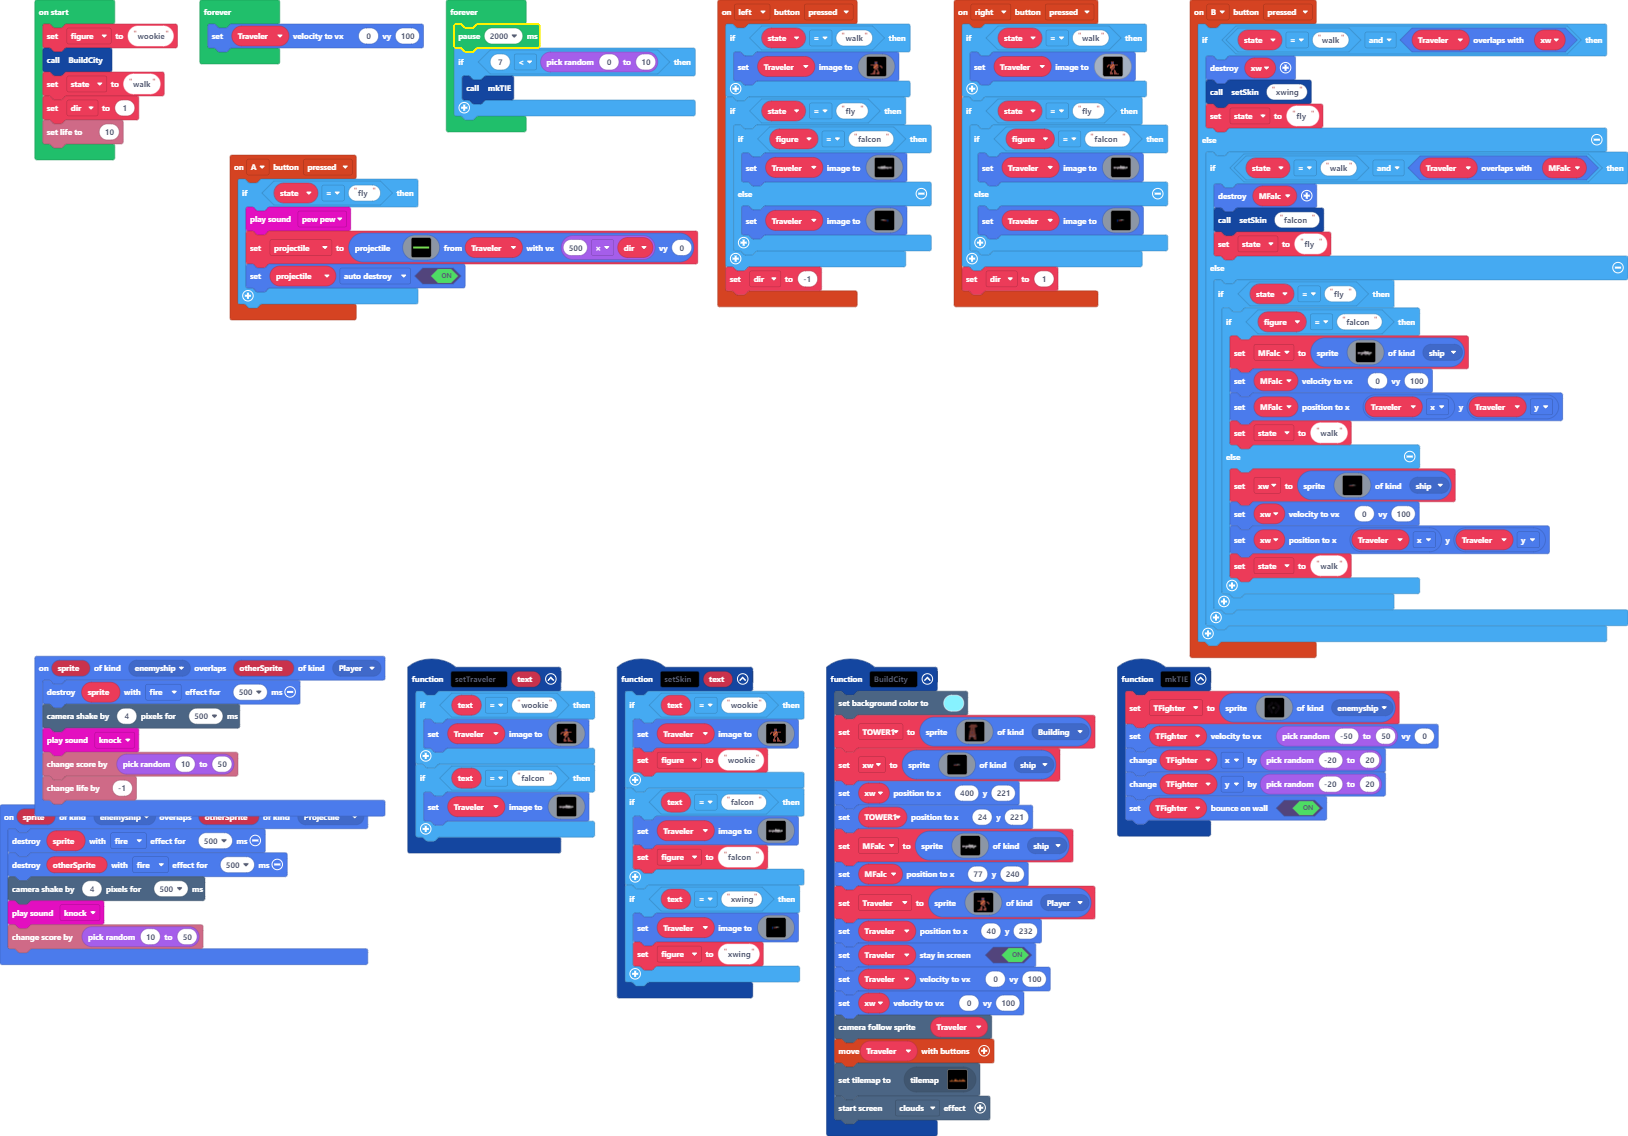
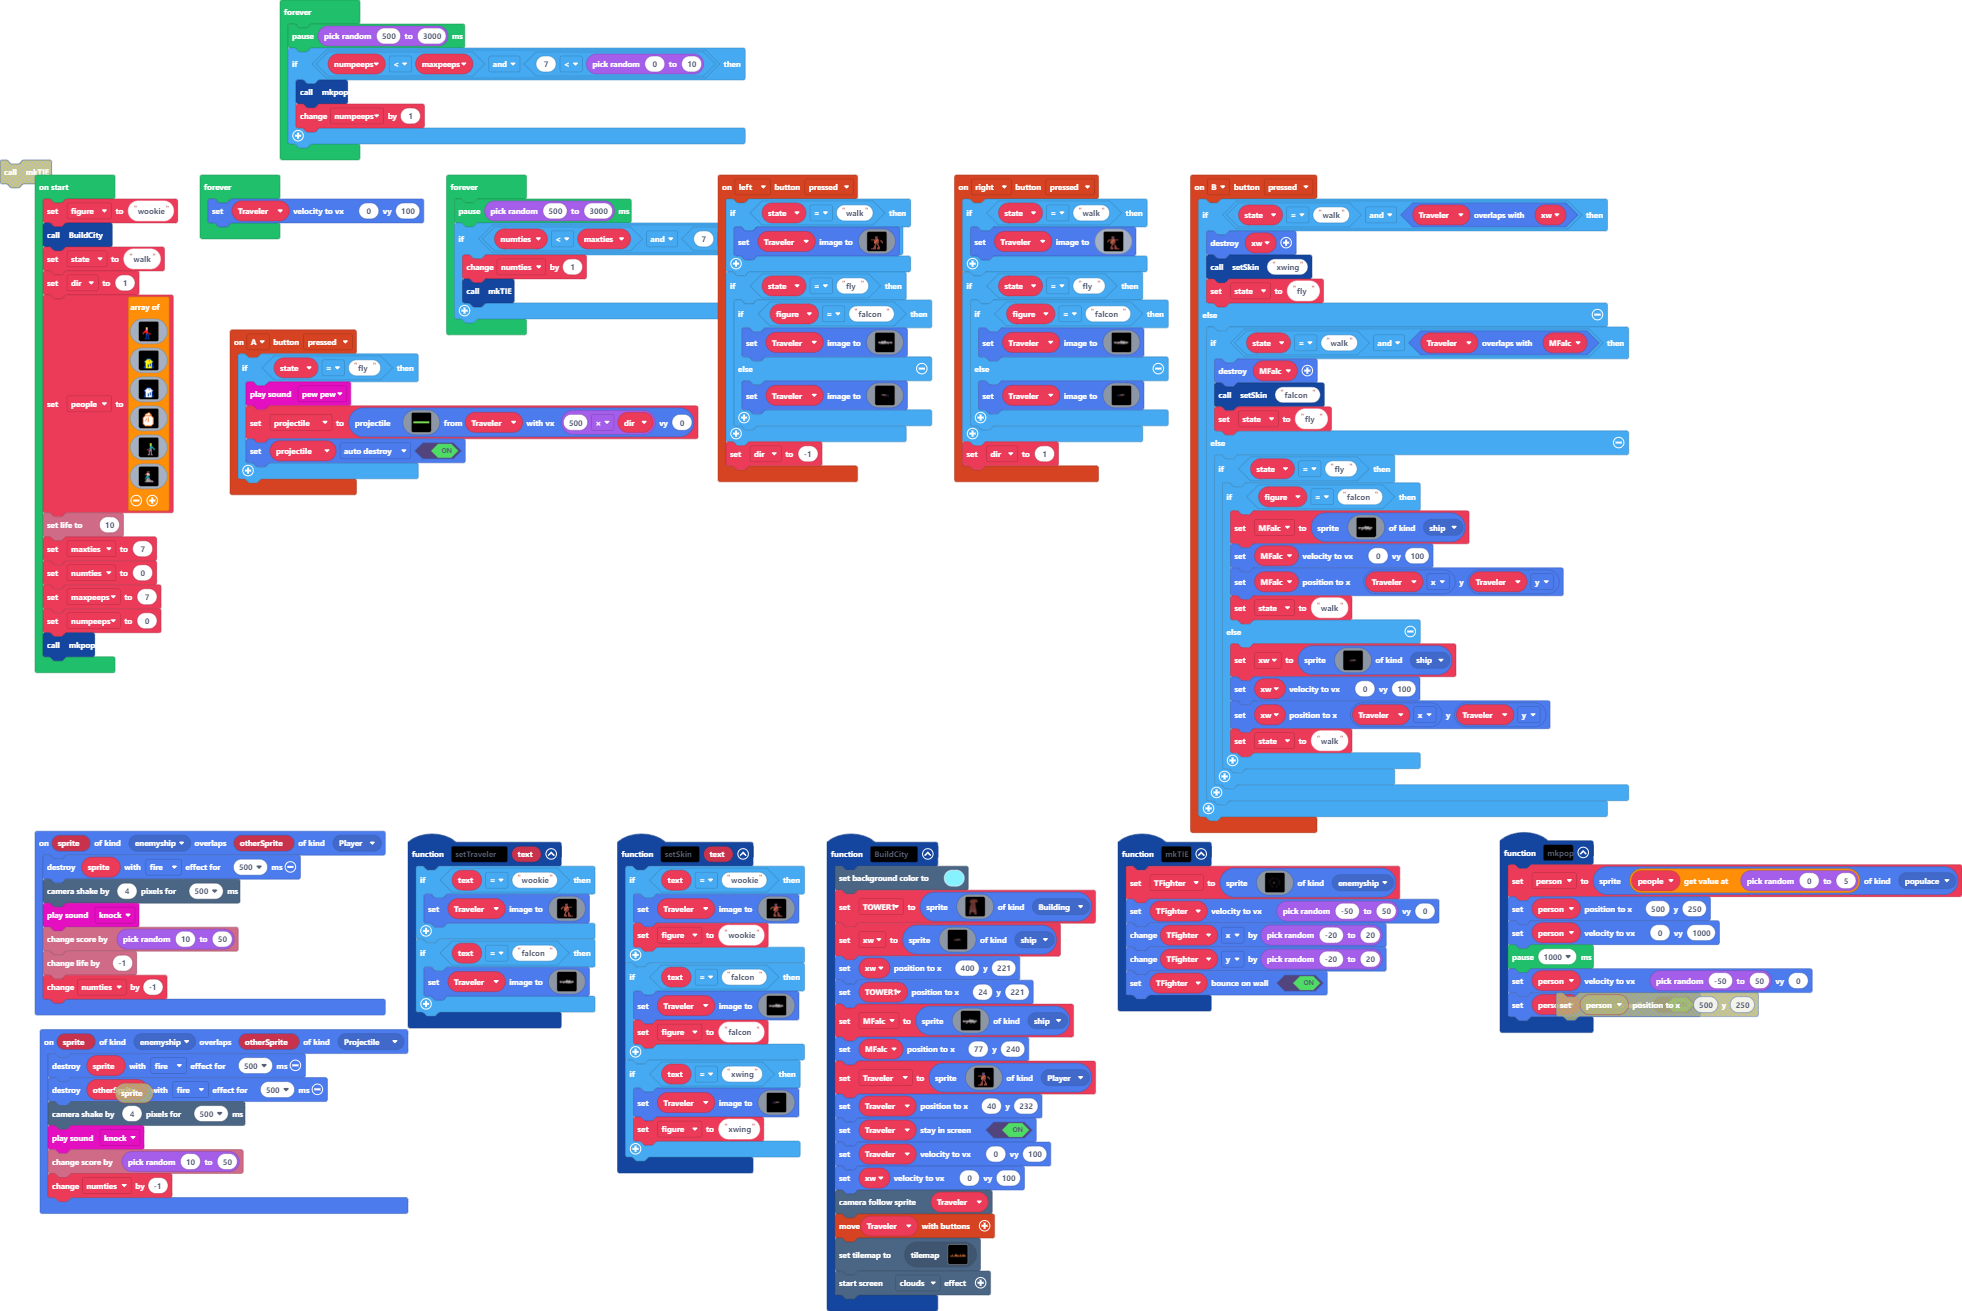
Update main.blocks, main.ts, images.g.jres, images.g.ts

diff --git a/images.g.ts b/images.g.ts
@@ -364,6 +364,120 @@ eeeeffffffffffffffffffffeeeeeeeeee................
 7 7 7 7 7 7 7 7 7 7 7 7 7 7 7 7 
 7 7 7 7 7 7 7 7 7 7 7 7 7 7 7 7 
 `;
+            case "O0H~V8`nz[++n+[[4Js|":
+            case "person1":return img`
+. . . . . . . . . . . . . . . . 
+. . . . . . . . . . . . . . . . 
+. . . . . . . . . . . . . . . . 
+. . . . . . . . . . . . . . . . 
+. . . . . 5 5 . . . . . . . . . 
+. . . . . 3 3 . . . . . . . . . 
+. . . . . 3 3 . . . . . . . . . 
+. . . . 2 2 2 . . . . . . . . . 
+. . . 2 2 2 2 . . . . . . . . . 
+. . 2 2 . 2 2 2 . . . . . . . . 
+. . 2 . . 8 8 . 2 2 . . . . . . 
+. . . . . 8 8 8 . . . . . . . . 
+. . . . . 8 . 8 . . . . . . . . 
+. . . . . 8 . 8 . . . . . . . . 
+. . . . . 8 . 8 . . . . . . . . 
+. . . . 8 8 . 8 8 . . . . . . . 
+`;
+            case "ihWsvbGad_#?@h+SNy9:":
+            case "droid1":return img`
+. . . . . . . . . . . . . . . . 
+. . . . . . . . . . . . . . . . 
+. . . . . . . . . . . . . . . . 
+. . . . . . . . . . . . . . . . 
+. . . . . . . . . . . . . . . . 
+. . . . . . . . . . . . . . . . 
+. . . . . . 8 8 8 8 . . . . . . 
+. . . . . 8 5 5 5 5 8 . . . . . 
+. . . . 8 5 5 5 2 5 5 8 . . . . 
+. . . 8 5 5 5 5 5 5 5 5 8 . . . 
+. . . . 8 5 5 5 5 5 5 8 . . . . 
+. . . . 8 5 5 5 5 8 5 8 . . . . 
+. . . . 8 5 5 8 5 8 5 8 . . . . 
+. . . . 8 5 5 8 5 8 5 8 . . . . 
+. . . 8 8 5 5 8 5 5 5 8 8 . . . 
+. . . 8 8 5 5 5 5 5 5 8 8 . . . 
+`;
+            case "image12":
+            case "droid0":return img`
+. . . . . . . . . . . . . . . . 
+. . . . . . . . . . . . . . . . 
+. . . . . . . . . . . . . . . . 
+. . . . . . . . . . . . . . . . 
+. . . . . . . . . . . . . . . . 
+. . . . . . . . . . . . . . . . 
+. . . . . . 8 8 8 8 . . . . . . 
+. . . . . 8 1 1 1 1 8 . . . . . 
+. . . . 8 1 1 1 2 1 1 8 . . . . 
+. . . 8 1 1 1 1 1 1 1 1 8 . . . 
+. . . . 8 1 1 1 1 1 1 8 . . . . 
+. . . . 8 1 1 1 1 8 1 8 . . . . 
+. . . . 8 1 1 8 1 8 1 8 . . . . 
+. . . . 8 1 1 8 1 8 1 8 . . . . 
+. . . 8 8 1 1 8 1 1 1 8 8 . . . 
+. . . 8 8 1 1 1 1 1 1 8 8 . . . 
+`;
+            case "image15":
+            case "droid2":return img`
+. . . . . . . . . . . . . . . . 
+. . . . . . . . . . . . . . . . 
+. . . . . . . 4 4 . . . . . . . 
+. . . . . 4 4 1 1 4 . . . . . . 
+. . . . 4 1 1 1 1 4 4 . . . . . 
+. . . . 4 4 4 4 4 4 4 . . . . . 
+. . . 4 1 1 1 1 1 1 1 4 . . . . 
+. . 4 1 1 1 1 4 1 1 1 1 4 . . . 
+. . 4 1 1 4 1 4 1 1 1 1 4 . . . 
+. . 4 1 1 4 1 4 1 1 1 1 4 . . . 
+. . 4 1 4 1 1 4 1 1 1 1 4 . . . 
+. . 4 1 1 1 1 4 1 1 1 1 4 . . . 
+. . 4 1 1 1 1 1 1 1 1 1 4 . . . 
+. . 4 1 1 1 1 1 1 1 1 1 4 . . . 
+. . . 4 1 1 1 1 1 1 1 4 . . . . 
+. . . . 4 4 4 4 4 4 4 . . . . . 
+`;
+            case "image14":
+            case "person2":return img`
+. . . . . . . . . . . . . . . . 
+. . . . . . . . . . . . . . . . 
+. . . . . . . . . . . . . . . . 
+. . . . . . . . . . . . . . . . 
+. . . . . . . . . 5 5 . . . . . 
+. . . . . . . . . 7 7 . . . . . 
+. . . . . . . . . 7 7 . . . . . 
+. . . . . . . . . 6 6 6 . . . . 
+. . . . . . . . . 6 6 6 6 . . . 
+. . . . . . . . 6 6 6 . 6 6 . . 
+. . . . . . 2 2 . b b . . 6 . . 
+. . . . . . . . b b b . . . . . 
+. . . . . . . . b . b . . . . . 
+. . . . . . . . b . b . . . . . 
+. . . . . . . . b . b . . . . . 
+. . . . . . . b b . b b . . . . 
+`;
+            case "image13":
+            case "person0":return img`
+. . . . . . . . . . . . . . . . 
+. . . . . . . . . . . . . . . . 
+. . . . . . . . . . . . . . . . 
+. . . . . . e e e . . . . . . . 
+. . . . . . e e . . . . . . . . 
+. . . . . e d d d . . . . . . . 
+. . . . e e d d d . . . . . . . 
+. . . . . . 6 6 6 . . . . . . . 
+. . . . . 6 6 6 . . . . . . . . 
+. . . . . 6 6 6 6 . . . . . . . 
+. . . . 6 . b b b . . . . . . . 
+. . . . . b 7 b b b . . . . . . 
+. . . . . b 7 7 7 b b b . . . . 
+. . . . b b b b b b b b b . . . 
+. . . . f f . . . f f f . . . . 
+. . . f f . . . . . . f f . . . 
+`;
         }
         return null;
     })

diff --git a/main.ts b/main.ts
@@ -2,6 +2,7 @@ namespace SpriteKind {
     export const Building = SpriteKind.create()
     export const ship = SpriteKind.create()
     export const enemyship = SpriteKind.create()
+    export const populace = SpriteKind.create()
 }
 function BuildCity () {
     scene.setBackgroundColor(9)
@@ -109,6 +110,7 @@ sprites.onOverlap(SpriteKind.enemyship, SpriteKind.Projectile, function (sprite,
     scene.cameraShake(4, 500)
     music.knock.play()
     info.changeScoreBy(randint(10, 50))
+    numties += -1
 })
 function mkTIE () {
     TFighter = sprites.create(assets.image`TIE`, SpriteKind.enemyship)
@@ -123,13 +125,24 @@ sprites.onOverlap(SpriteKind.enemyship, SpriteKind.Player, function (sprite, oth
     music.knock.play()
     info.changeScoreBy(randint(10, 50))
     info.changeLifeBy(-1)
+    numties += -1
 })
+function mkpop () {
+    person = sprites.create(people[randint(0, 5)], SpriteKind.populace)
+    person.setPosition(500, 250)
+    person.setVelocity(0, 1000)
+    pause(1000)
+    person.setVelocity(randint(-50, 50), 0)
+    person.setBounceOnWall(true)
+}
+let person: Sprite = null
 let TFighter: Sprite = null
 let projectile: Sprite = null
 let Traveler: Sprite = null
 let MFalc: Sprite = null
 let xw: Sprite = null
 let TOWER1: Sprite = null
+let people: Image[] = []
 let dir = 0
 let state = ""
 let figure = ""
@@ -137,13 +150,34 @@ figure = "wookie"
 BuildCity()
 state = "walk"
 dir = 1
+people = [
+assets.image`person1`,
+assets.image`droid1`,
+assets.image`droid0`,
+assets.image`droid2`,
+assets.image`person2`,
+assets.image`person0`
+]
 info.setLife(10)
+let maxties = 7
+let numties = 0
+let maxpeeps = 7
+let numpeeps = 0
+mkpop()
+forever(function () {
+    pause(randint(500, 3000))
+    if (numpeeps < maxpeeps && 7 < randint(0, 10)) {
+        mkpop()
+        numpeeps += 1
+    }
+})
 forever(function () {
     Traveler.setVelocity(0, 100)
 })
 forever(function () {
-    pause(2000)
-    if (7 < randint(0, 10)) {
+    pause(randint(500, 3000))
+    if (numties < maxties && 7 < randint(0, 10)) {
+        numties += 1
         mkTIE()
     }
 })
